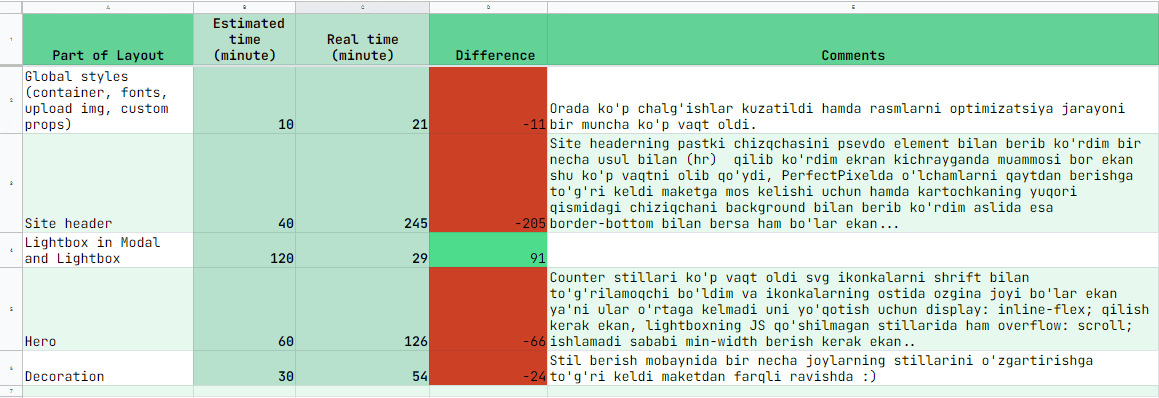
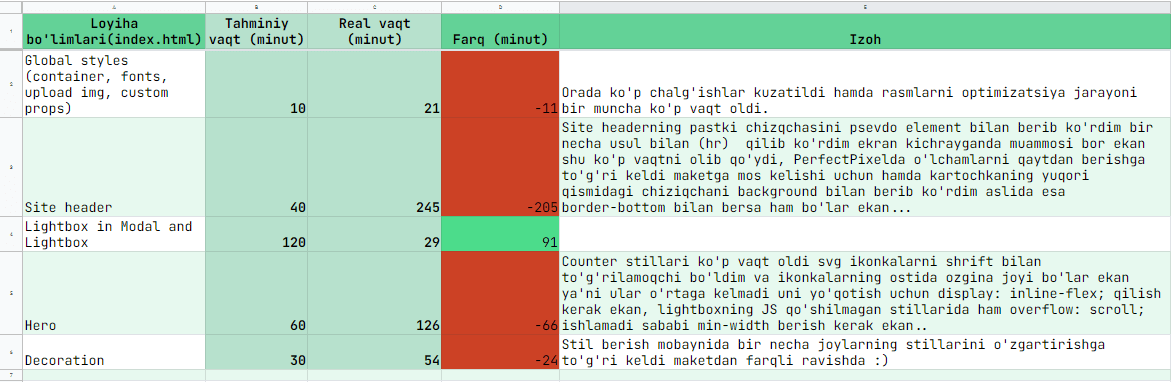
Upload time-table images and deploy project-info initial view.

diff --git a/minimalist.html b/minimalist.html
@@ -100,28 +100,41 @@
   <!-- BATAFSIL MA'LUMOTDA  -->
   <!-- Loyiha tuzilishida boshdan kechirilgan challangelarni qanday bartaraf qilingani haqida  -->
 
-  <!-- Ertaga qiladigan ishlarim ro'yhati  -->
-  <!-- 1. Hamma jadvallarni o'zbek tiliga o'tkazib squosh da 2x variantini kichraytirmasdan chiqarib tiny.png qilish  -->
-  <!-- 2. Batafsil ma'lumot sahifasini dizaynini yana bir bor yaxshilab ko'rib chiqish  -->
   <!-- 3. Erataga hamma videolarni ko'rib batafsil ma'lumot degan sahifani to'liq (responsive) tugatish  -->
 
-  <main class="main-content">
+  <main class="main-content main-content--project">
     <div id="site-top"></div>
     <div class="project-info" style="padding-top: 250px;">
       <div class="container project-info__container">
-        <img src="img/projects/minimalist.jpg" alt="">
+        <img src="img/projects/minimalist.jpg" alt="Minimalist" width="1100" height="500" srcset="img/projects/minimalist.jpg 1x, img/projects/minimalist@2x.jpg 2x">
+        <h1 class="project-info__title">Minimalist</h1>
+        <time class="project-info__time" datetime="19.07.2022">2022-yil 19-iyul</time>
         <div class="project-info__content">
-          <h1 class="project-info__title">Minimalist</h1>
           <p class="project-info__text">
             Minimalist portfolio sayti bo'lib unda Alex Spencer haqida ayrim ma'lumotlar hamda uning qilgan ishlari ro'yhati aks etgan. Hamda ushbu sayt portfolio sayt yaratishda tayyor namuna sifatida ham xizmat qila oladi.
-            Minimalist sayti 7 sahifadan iborat bo'lib, undan 1 ta sahifasi Alex Spencer haqida, 1 tasi qilgan loyihalari ro'yhatini bersa undagi 4 sahifa esa loyihlar haqida to'liq ma'lumot olish imkoniyatini beradi, hamda yana 1 sahifa Alex Spencer bilan bog'lanish imkoniyatini beradi. Loyiha <time datetime="19.07.2022">2022-yil 19-iyulda qilingan.</time> Minimalist veb saytining barcha sahifalari rasmini <a class="project-info__text-link" href="https://drive.google.com/drive/folders/1ulNF6s_llwPACZxt7KGUYtiHiZno3oop?usp=sharing" target="_blank">bu yerda</a> ko'rishingiz mumkin.
+            Minimalist sayti 7 sahifadan iborat bo'lib, undan 1 ta sahifasi Alex Spencer haqida, 1 tasi qilgan loyihalari ro'yhatini bersa undagi 4 sahifa esa loyihlar haqida to'liq ma'lumot olish imkoniyatini beradi, hamda yana 1 sahifa Alex Spencer bilan bog'lanish imkoniyatini beradi. Minimalist veb saytining barcha sahifalari rasmini <a class="project-info__text-link" href="https://drive.google.com/drive/folders/1ulNF6s_llwPACZxt7KGUYtiHiZno3oop?usp=sharing" target="_blank">bu yerda</a> ko'rishingiz mumkin.
+          </p>
+          <div class="projects__link-wrapper projects__link-wrapper--project-info">
+            <a class="projects__link projects__link--project-info projects__link--github" href="https://github.com/MIRZOULUGBEK9008/myteam-selfmade" target="_blank">GitHub</a>
+            <a class="projects__link projects__link--project-info projects__link--netlify" href="https://myteam-selfmade.netlify.app/" target="_blank">Netlify</a>
+          </div>
+        </div>
+
+        <div class="project-info__challenge">
+          <h2 class="project-info__challenge-title">Loyihadagi murakkab nuqtalar</h2>
+          <p class="project-info__challenge-description">
+            Minimalist maketidagi murakkab nuqta - har bir loyiha haqida alohida ma'lumot berilgan sahifasining quyi qismida joylashgan "page slider"ni boshqa sahifalarda ham ishlatsa bo'ladigan qilib kod yozish bo'ldi.
           </p>
         </div>
-        <img class="project-info__time-table" src="img/time-projects/time-minimalist.jpg" alt="Time table Minimalist" width="1271" height="479" srcset="img/time-projects/time-minimalist.jpg 1x, img/time-projects/time-minimalist@2x.jpg 2x">
+
+        <h2 class="project-info__time-table-title">Loyiha bo'limlariga sarf qilingan vaqt jadvali</h2>
+        <img class="project-info__time-table" src="img/time-projects/time-minimalist.jpg" alt="Time table Minimalist" width="1100" height="400" srcset="img/time-projects/time-minimalist.jpg 1x, img/time-projects/time-minimalist@2x.jpg 2x">
       </div>
     </div>
   </main>
 
+
+  <!-- SCROLL  -->
   <a class="scroll-site-top js-scroll" href="#site-top">
     <svg xmlns="http://www.w3.org/2000/svg" viewBox="0 0 512 512"><path d="M256 0C114.6 0 0 114.6 0 256c0 141.4 114.6 256 256 256s256-114.6 256-256C512 114.6 397.4 0 256 0zM382.6 254.6c-12.5 12.5-32.75 12.5-45.25 0L288 205.3V384c0 17.69-14.33 32-32 32s-32-14.31-32-32V205.3L174.6 254.6c-12.5 12.5-32.75 12.5-45.25 0s-12.5-32.75 0-45.25l103.1-103.1C241.3 97.4 251.1 96 256 96c4.881 0 14.65 1.391 22.65 9.398l103.1 103.1C395.1 221.9 395.1 242.1 382.6 254.6z"/></svg>
   </a>

diff --git a/css/styles.css b/css/styles.css
@@ -271,6 +271,10 @@ img {
   flex-grow: 1;
 }
 
+.main-content--project {
+  background-color: var(--white);
+}
+
 
 /* SITE-HEADER  */
 .site-header {
